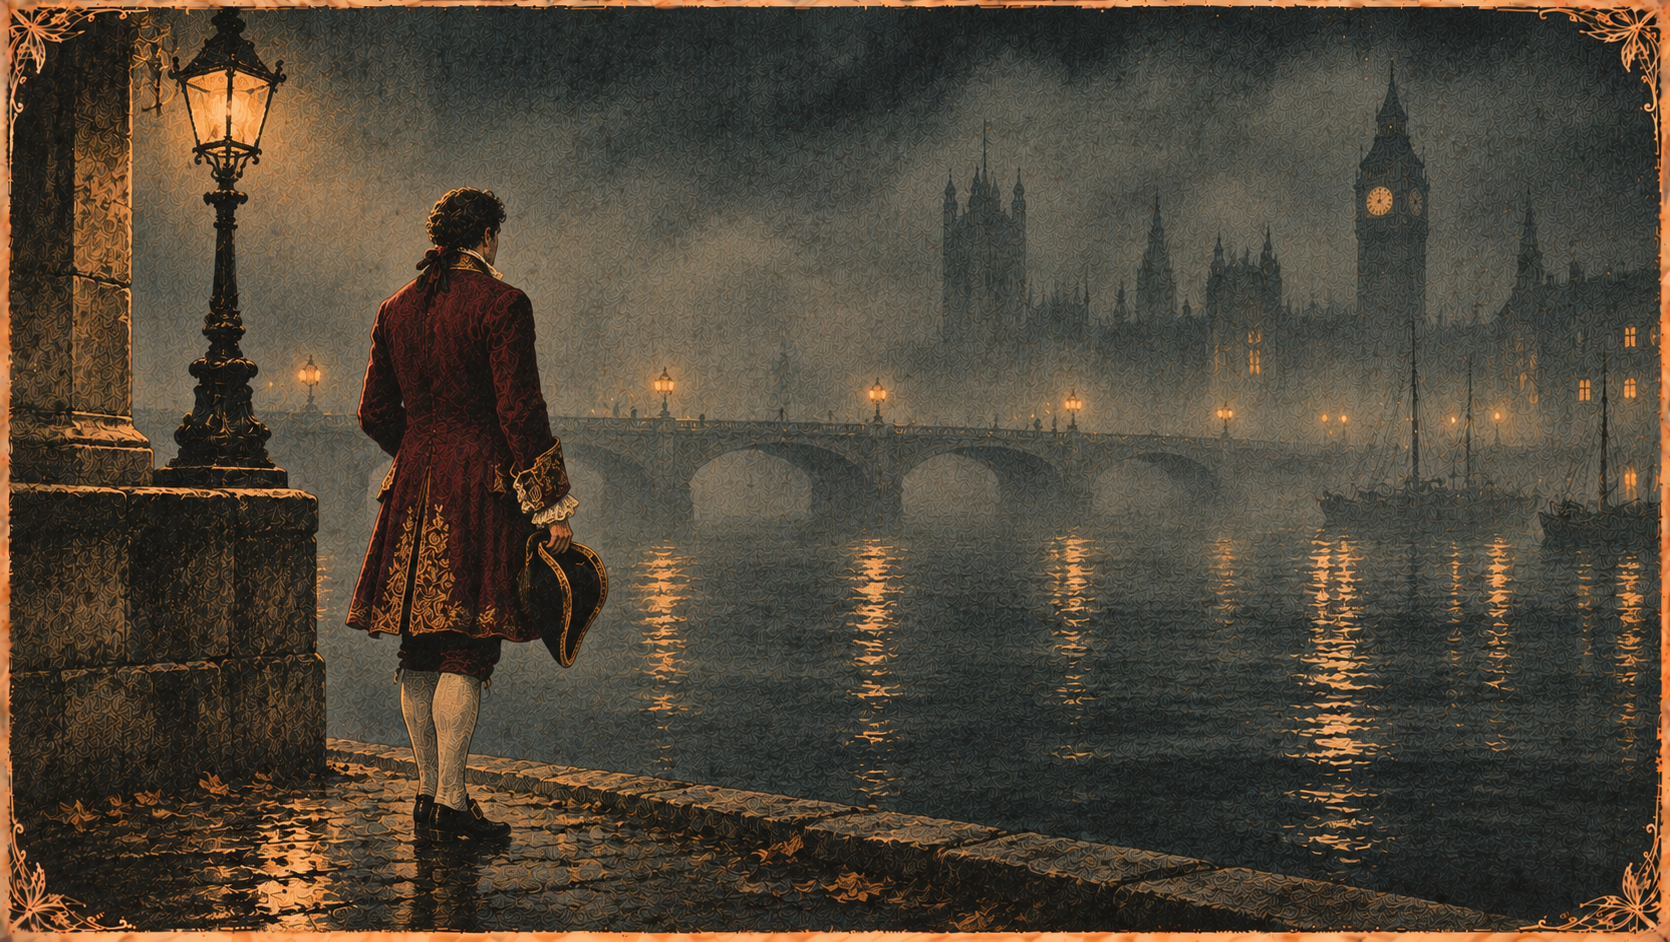
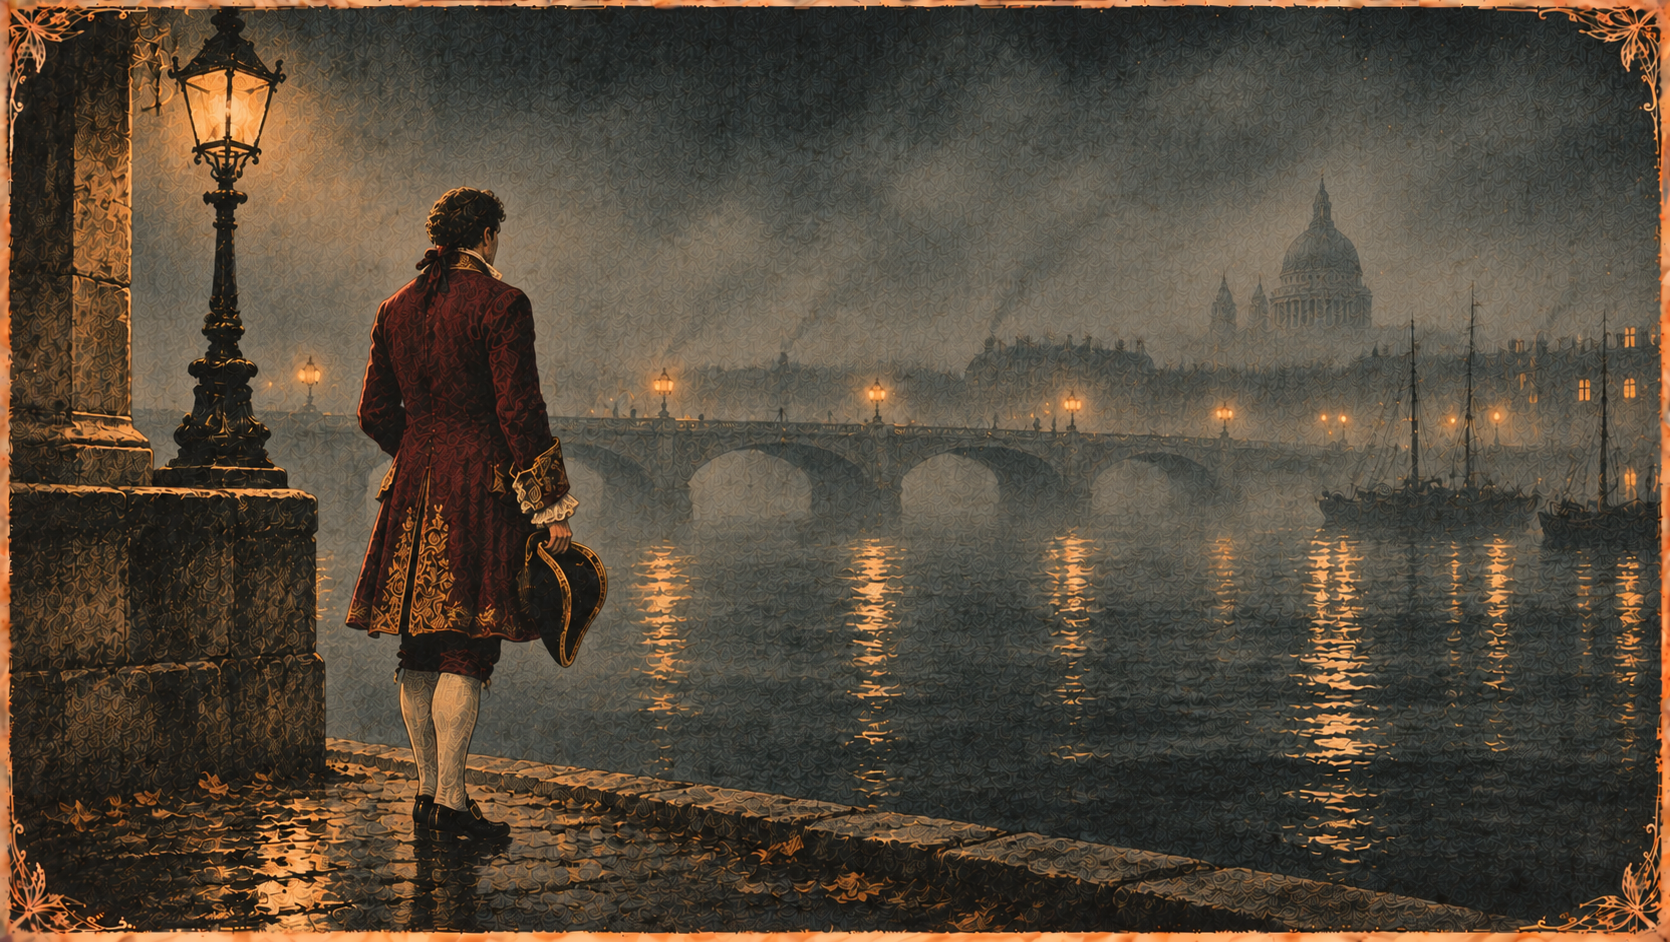
Casanova: replace P12 with historically accurate version; all 25 images done
Claude-Session: https://claude.ai/code/session_01CbnL4GZchFwFk8f39KcLsR

diff --git a/episodes/001-giacomo-casanova/images/README.md b/episodes/001-giacomo-casanova/images/README.md
@@ -27,8 +27,10 @@ menyimpan di sini dengan nama sesuai `../image-prompts.md`.
 | P10 | `P10-atap-piombi.png` | ✅ Disetujui | Dua pria merayap di atap (satu berkemeja putih), kubah San Marco, laguna, bulan. Tokohnya lebih besar dari rencana, tetap bagus |
 | P11 | `P11-gondola-kabut.png` | ✅ Disetujui (catatan) | Gondola, pria berjubah, lentera, kabut tebal, bulan. ⚠ Pendayung memakai topi jerami (*boater*) yang baru populer abad ke-19; detail kecil, diterima |
 | P03 | `P03-anak-di-jendela.png` | ✅ Disetujui | Anak di jendela, siluet nenek, perahu berdua menjauh di kanal berkabut. Sangat menyentuh |
-| P12 | `P12-tepi-thames.png` | ⚠ Perlu keputusan | Casanova di tepi Thames, topi di tangan: bagus. ⚠ **Anakronisme besar:** Menara Big Ben & Gedung Parlemen gotik baru dibangun ±1840–1870, padahal adegan ini tahun 1763 |
+| P12 | `P12-tepi-thames.png` | ✅ Disetujui (versi 2) | Dibuat ulang: Big Ben & Parlemen gotik (anakronisme) dihapus, diganti kubah St Paul di kabut. Casanova di tepi Thames dengan topi di tangan, jembatan berlampu, kapal layar |
 | P13 | `P13-pintu-tertutup-london.png` | ✅ Disetujui | Tangan bercincin berlian & manset burgundy di pintu; siluet wanita bertopi menjauh; kubah St Paul (akurat untuk 1763) |
 | P18 | `P18-kastil-dux.png` | ✅ Disetujui | Kastil barok bersalju, satu jendela menyala |
 | C2 | `C2-closeup-casanova-tua.png` | ✅ Disetujui (catatan) | Wajah tua, hidung melengkung, rambut putih berpita, pena bulu, lilin. Senyumnya hangat-nostalgia (bukan getir berlinang); cocok dengan kutipan "mengingat kesenangan" |
 | P20 | `P20-pria-fajar-jendela.png` | ✅ Disetujui | Ponsel tertelungkup, pria berdiri tegak di jendela saat fajar. Kamar sedikit berbeda dari P01 tetapi suasananya menyambung |
+
+**Status Gelombang 1–5: 25/25 gambar selesai ✅**
